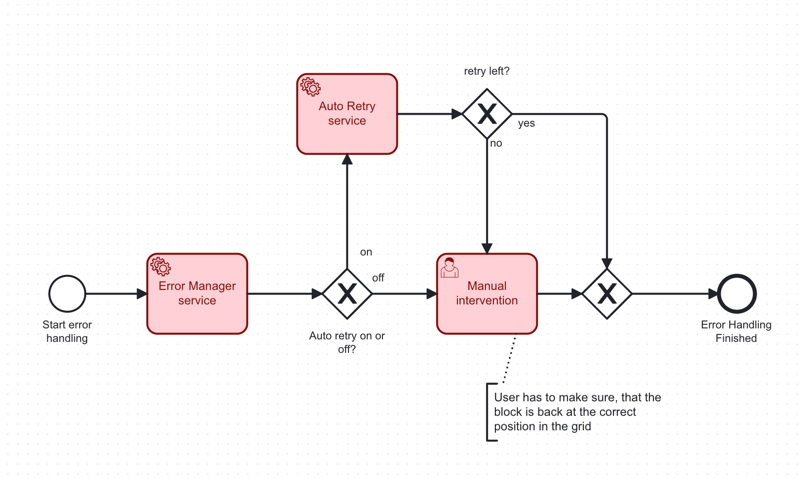
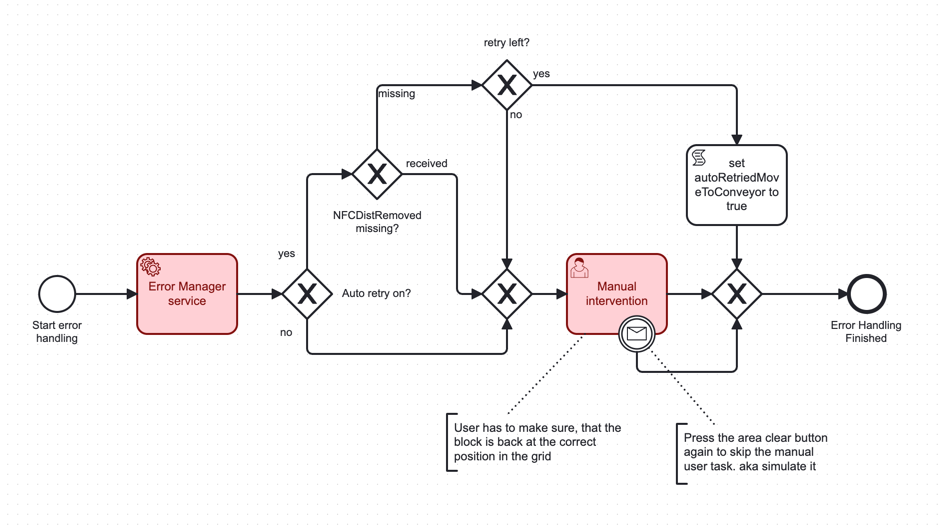
Updated adr 13 stateful resilience

Changed region(s): [[0.0312, 0.1172, 0.9675, 0.7322], [0.4682, 0.7615, 0.8739, 0.9372], [0.4994, 0.0586, 0.5618, 0.0879]]

diff --git a/doc/adr/0013-stateful-resilience-pattern-for-missing-events.md b/doc/adr/0013-stateful-resilience-pattern-for-missing-events.md
@@ -14,23 +14,31 @@ Within our event-driven and process-oriented workflow architecture, certain even
 This missing event scenario can halt the progression of our workflow, creating risks to the overall system's reliability and throughput.  
 At the moment, we expect this to happen at three stages, where it can be detected automatically:
 
-1. **Picker robot: Block moved to conveyor belt**
-    - Event from picker robot missing (block positioned on NFC reader).
+1. **Picker robot: Block moved to NFC reader**
+   - Event from picker robot missing (block positioned on NFC reader).
+   - Event from nfc (distance) sensor missing (block detection).
+2. **Picker robot: Block moved to conveyor belt**
+    - Event from nfc (distance) sensor missing (block removal).
     - Event from right sensor missing (block detection).
     - Event from robot missing (block placed on conveyor belt).
 2. **Picker robot: Block sorted in green basket**
+    - Event from nfc (distance) sensor missing (block removal).
+    - Event from nfc (tag) sensor missing (tag removal).
     - Event from picker robot missing (green block sorted).
 3. **Conveyor belt: Block moved to color robot pickup point**
     - Event from left sensor missing (block detection).
     - Event from right sensor missing (block removal).
     - Event from conveyor belt missing (block movement).
 4. **Color robot: Block moved to color sensor**
-    - Event from color sensor service missing.
+    - Event from color sensor service missing (color detection).
     - Event from left sensor missing (block removal).
+    - Event from color robot missing (block positioned on color sensor).
 5. **Color robot: Block sorted in non-green basket**
     - Event from color robot missing (block sorted).
 
+Within a timeout period the process waits for all events to arrive, otherwise the error handling is triggered.
 ![process_error_handling.png](imges/process_error_handling.png)
+
 
 ## Decision
 
@@ -43,7 +51,8 @@ It is configurable via [`application.properties`](../../src/manager/src/main/res
 This allows configuring the error handling based on tests with the actual hardware.
 
 If the automatic retries fail, the process will always end in manual intervention.
-
+The auto-retry mechanism can only be triggered, if certain events are missing. Mainly the distance sensors determine if a block is still in its original position and a auto-retry could therefore be successful.
+The manual user task can be skipped with the are clear button, for testing purposes.
 ![process_error_handling_detail.png](imges/process_error_handling_detail.png)
 
 ## Rationale
